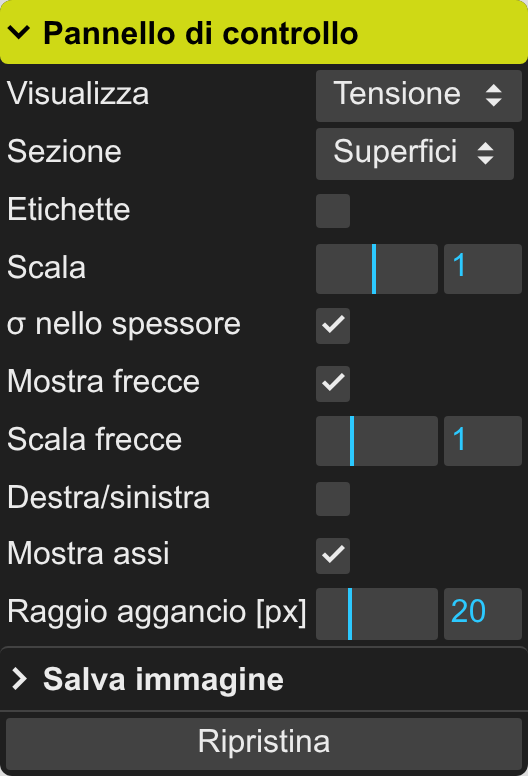
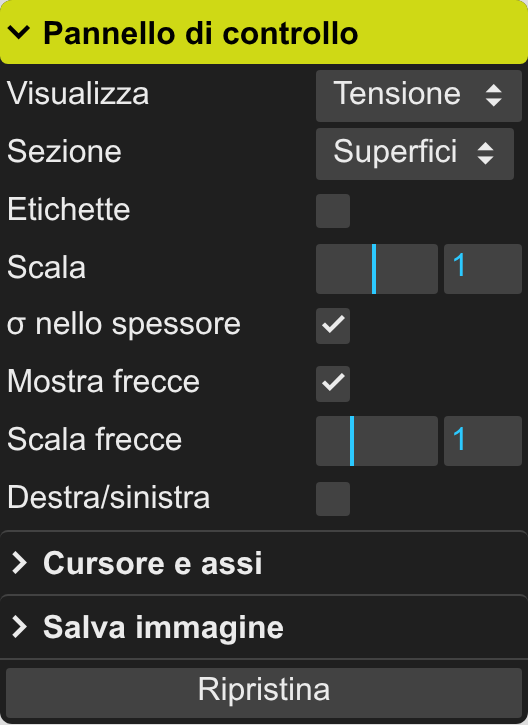
3D: Cursorabstand halbiert und einstellbar, Untermenü „Cursor und Achsen“, Hochformat passt
- Fingerbedienung: Cursor sitzt nur noch 1/20 der Bilddiagonale über dem Finger (bisher 1/10),
  einstellbar mit Faktor 0,5–2 („Abstand Cursor (Finger)“)
- Bedienfeld: Untermenü „Cursor und Achsen“ mit Cursorabstand, Fangweite und Achsen anzeigen
- Kamera: Seitenverhältnis beim ersten Öffnen aus der aktuellen Größe; im Hochformat stand die
  Kamera zu nah und der Querschnitt war seitlich abgeschnitten
- Übersetzungen, Kurzdokumentation (5 Sprachen) und Bedienfeld-Bilder; es: „Sección transversal“

diff --git a/src/grafik3d.ts b/src/grafik3d.ts
@@ -60,6 +60,7 @@ const optionen = {
     achsen: true,
     skalierung: 1,
     fangweite: 20,        // Pixel
+    cursorAbstand: 1,     // Faktor für den Versatz des Cursors über dem Finger (1 = 1/20 der Bilddiagonale)
     bildFaktor: 2,        // Bildexport: Vielfaches der Bildschirmgröße (CSS-Pixel)
     bildWeiss: true,      // Bildexport mit weißem statt grauem Hintergrund
 };
@@ -168,6 +169,9 @@ function kameraZuruecksetzen(): void {
     }
     kameraNachholen = false;
     kameraGroesse = groesse;
+    // Seitenverhältnis selbst setzen: Beim ersten Öffnen läuft dies vor resize(), die Kamera hätte sonst noch
+    // das alte Seitenverhältnis und stünde im Hochformat zu nah (Querschnitt seitlich abgeschnitten)
+    camera.aspect = host.clientWidth / host.clientHeight;
 
     const radius = groesse * 0.6;
     const fovV = THREE.MathUtils.degToRad(camera.fov);
@@ -300,10 +304,15 @@ function initBedienfeld(): void {
         () => a() === 'sigma' || a() === 'tau']);
     optionenZeigen();
     g.add(optionen, 'seitenLR').name(msg('rechts/links anzeigen')).onChange(neuAufbauen);
-    g.add(optionen, 'achsen').name(msg('Achsen anzeigen')).onChange(sichtbarkeit);
-    g.add(optionen, 'fangweite', 5, 60, 1).name(msg('Fangweite [px]')).onChange(() => {
+
+    // Cursor (Fangkreuz) und Achsen in einem Untermenü wie „Bild speichern“
+    const cursor = g.addFolder(msg('Cursor und Achsen'));
+    cursor.add(optionen, 'cursorAbstand', 0.5, 2, 0.1).name(msg('Abstand Cursor (Finger)'));
+    cursor.add(optionen, 'fangweite', 5, 60, 1).name(msg('Fangweite [px]')).onChange(() => {
         if (letzterZeiger) fangen(letzterZeiger.x, letzterZeiger.y, letzterZeiger.springen);
     });
+    cursor.add(optionen, 'achsen').name(msg('Achsen anzeigen')).onChange(sichtbarkeit);
+    cursor.close();
 
     const bild = g.addFolder(msg('Bild speichern'));
     bild.add(optionen, 'bildFaktor', { '1×': 1, '2×': 2, '3×': 3, '4×': 4, '6×': 6, '8×': 8 })
@@ -989,7 +998,7 @@ function zeigerBewegt(ev: PointerEvent): void {
     const x = ev.offsetX;
     let y = ev.offsetY;
     // Finger: Cursor über dem Finger, damit man sieht, wo man ist (wie d2beam-gui)
-    if (ev.pointerType === 'touch') y -= Math.hypot(host.clientWidth, host.clientHeight) / 10;
+    if (ev.pointerType === 'touch') y -= optionen.cursorAbstand * Math.hypot(host.clientWidth, host.clientHeight) / 20;
     const springen = ev.pointerType !== 'mouse';
     letzterZeiger = { x, y, springen };
     fangen(x, y, springen);

diff --git a/public/Kurzdokumentation_spanish.html b/public/Kurzdokumentation_spanish.html
@@ -337,7 +337,7 @@
 			<li><b>Mostrar fyRd:</b> en la tensión equivalente, f<sub>y,Rd</sub> se dibuja como un plano
 				sobre la sección. Abajo a la derecha se indican la tensión equivalente máxima y el grado de
 				aprovechamiento.</li>
-			<li><b>sección transversal:</b> representa el cuerpo de la sección como <i>Superficies</i>, <i>Superficies transparentes</i> o <i>Modelo alámbrico</i>. Con superficies transparentes o como modelo alámbrico también se ven las tensiones pequeñas que, de lo contrario, quedan ocultas dentro del cuerpo de la sección.</li>
+			<li><b>Sección transversal:</b> representa el cuerpo de la sección como <i>Superficies</i>, <i>Superficies transparentes</i> o <i>Modelo alámbrico</i>. Con superficies transparentes o como modelo alámbrico también se ven las tensiones pequeñas que, de lo contrario, quedan ocultas dentro del cuerpo de la sección.</li>
 			<li><b>Rótulos:</b> valores en los extremos de los elementos y valores extremos.</li>
 			<li><b>Escala:</b> exageración de la magnitud representada.</li>
 			<li><b>σ en el espesor:</b> en la tensión normal se dibuja además el cuerpo de tensiones en el
@@ -348,8 +348,15 @@
 				normales y tangenciales.</li>
 			<li><b>Derecha/izquierda:</b> marca los lados derecho e izquierdo de los elementos y muestra
 				con una flecha la dirección del nudo inicial al final.</li>
-			<li><b>Mostrar ejes:</b> ejes de coordenadas en el centro de gravedad.</li>
-			<li><b>Radio captura [px]:</b> distancia a la que se ajusta la cruz de captura.</li>
+			<li><b>Cursor y ejes:</b>
+				<ul>
+					<li><b>Distancia del cursor (dedo):</b> con el dedo, la cruz de captura se sitúa por encima del
+						dedo para que se vea dónde se está. El factor (0,5 a 2) reduce o aumenta esta distancia, p. ej.
+						para alcanzar valores cerca del borde inferior.</li>
+					<li><b>Radio captura [px]:</b> distancia a la que se ajusta la cruz de captura.</li>
+					<li><b>Mostrar ejes:</b> ejes de coordenadas en el centro de gravedad.</li>
+				</ul>
+			</li>
 			<li><b>Guardar imagen:</b> guarda la vista como archivo PNG con resolución seleccionable,
 				opcionalmente con fondo blanco.</li>
 			<li><b>Restablecer:</b> restablece la escala, la dirección de la vista y el zoom.</li>

diff --git a/public/Kurzdokumentation_french.html b/public/Kurzdokumentation_french.html
@@ -355,8 +355,15 @@
 				contraintes normales et de cisaillement.</li>
 			<li><b>Droite/gauche :</b> repère les côtés droit et gauche des éléments et montre par une
 				flèche le sens du nœud de début vers le nœud de fin.</li>
-			<li><b>Afficher les axes :</b> axes de coordonnées au centre de gravité.</li>
-			<li><b>Rayon capture [px] :</b> distance à laquelle le réticule s'accroche.</li>
+			<li><b>Curseur et axes :</b>
+				<ul>
+					<li><b>Décalage du curseur (doigt) :</b> au doigt, le réticule se place au-dessus du doigt pour
+						que l'on voie où l'on se trouve. Le facteur (0,5 à 2) réduit ou augmente cette distance, par
+						exemple pour atteindre des valeurs proches du bord inférieur.</li>
+					<li><b>Rayon capture [px] :</b> distance à laquelle le réticule s'accroche.</li>
+					<li><b>Afficher les axes :</b> axes de coordonnées au centre de gravité.</li>
+				</ul>
+			</li>
 			<li><b>Enregistrer l'image :</b> enregistre la vue dans un fichier PNG avec une résolution au
 				choix, éventuellement sur fond blanc.</li>
 			<li><b>Réinitialiser :</b> rétablit l'échelle, la direction de vue et le zoom.</li>

diff --git a/public/Kurzdokumentation_deutsch.html b/public/Kurzdokumentation_deutsch.html
@@ -348,8 +348,15 @@
 				Schubspannungen.</li>
 			<li><b>rechts/links anzeigen:</b> kennzeichnet die rechte und linke Seite der Elemente und
 				zeigt mit einem Pfeil die Richtung vom Anfangs- zum Endknoten.</li>
-			<li><b>Achsen anzeigen:</b> Koordinatenkreuz im Schwerpunkt.</li>
-			<li><b>Fangweite [px]:</b> Abstand, in dem das Fangkreuz einrastet.</li>
+			<li><b>Cursor und Achsen:</b>
+				<ul>
+					<li><b>Abstand Cursor (Finger):</b> Bei Fingerbedienung sitzt das Fangkreuz über dem Finger, damit
+						man sieht, wo man ist. Der Faktor (0,5 bis 2) verkleinert oder vergrößert diesen Abstand, z. B.
+						um Werte nahe am unteren Bildrand zu erreichen.</li>
+					<li><b>Fangweite [px]:</b> Abstand, in dem das Fangkreuz einrastet.</li>
+					<li><b>Achsen anzeigen:</b> Koordinatenkreuz im Schwerpunkt.</li>
+				</ul>
+			</li>
 			<li><b>Bild speichern:</b> speichert die Ansicht als PNG-Datei in wählbarer Auflösung,
 				wahlweise mit weißem Hintergrund.</li>
 			<li><b>Zurücksetzen:</b> setzt Skalierung, Blickrichtung und Zoom zurück.</li>

diff --git a/public/Kurzdokumentation_italian.html b/public/Kurzdokumentation_italian.html
@@ -346,8 +346,15 @@
 				tangenziali.</li>
 			<li><b>Destra/sinistra:</b> contrassegna i lati destro e sinistro degli elementi e indica con
 				una freccia la direzione dal nodo iniziale al nodo finale.</li>
-			<li><b>Mostra assi:</b> assi coordinati nel baricentro.</li>
-			<li><b>Raggio aggancio [px]:</b> distanza entro cui il mirino si aggancia.</li>
+			<li><b>Cursore e assi:</b>
+				<ul>
+					<li><b>Distanza cursore (dito):</b> con il dito il mirino si trova sopra il dito, così si vede
+						dove ci si trova. Il fattore (da 0,5 a 2) riduce o aumenta questa distanza, ad esempio per
+						raggiungere valori vicini al bordo inferiore.</li>
+					<li><b>Raggio aggancio [px]:</b> distanza entro cui il mirino si aggancia.</li>
+					<li><b>Mostra assi:</b> assi coordinati nel baricentro.</li>
+				</ul>
+			</li>
 			<li><b>Salva immagine:</b> salva la vista come file PNG con risoluzione a scelta,
 				eventualmente con sfondo bianco.</li>
 			<li><b>Ripristina:</b> ripristina scala, direzione di vista e zoom.</li>

diff --git a/public/Kurzdokumentation_english.html b/public/Kurzdokumentation_english.html
@@ -343,8 +343,15 @@
 				stresses.</li>
 			<li><b>Show right/left:</b> marks the right and left side of the elements and shows the
 				direction from start node to end node with an arrow.</li>
-			<li><b>Show axes:</b> coordinate axes at the centroid.</li>
-			<li><b>Snap radius [px]:</b> distance within which the crosshair snaps.</li>
+			<li><b>Cursor and axes:</b>
+				<ul>
+					<li><b>Cursor offset (finger):</b> with finger input the crosshair sits above the finger so that
+						you can see where you are. The factor (0.5 to 2) reduces or increases this distance, e.g. to
+						reach values close to the bottom edge.</li>
+					<li><b>Snap radius [px]:</b> distance within which the crosshair snaps.</li>
+					<li><b>Show axes:</b> coordinate axes at the centroid.</li>
+				</ul>
+			</li>
 			<li><b>Save image:</b> saves the view as a PNG file in a selectable resolution, optionally
 				with a white background.</li>
 			<li><b>Reset:</b> resets scaling, viewing direction and zoom.</li>
